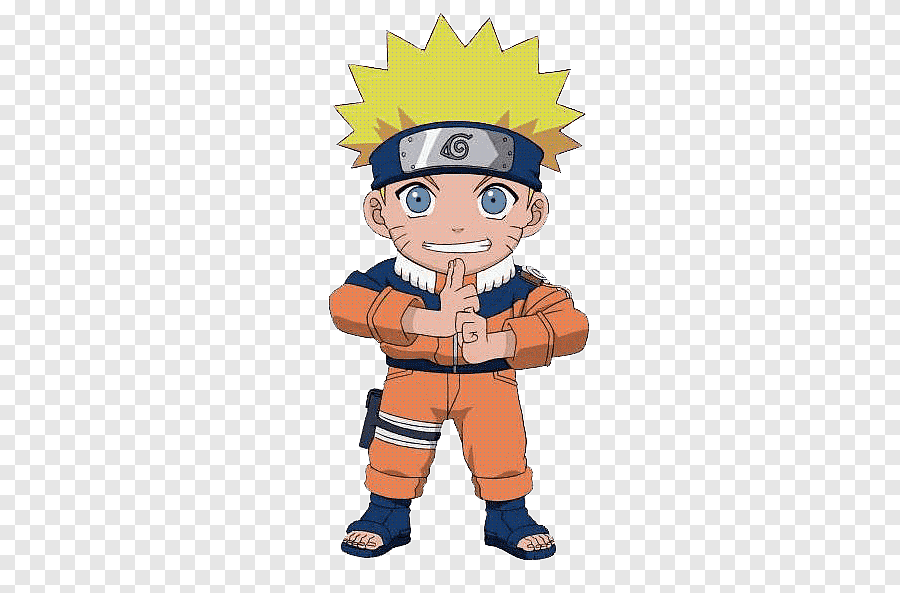
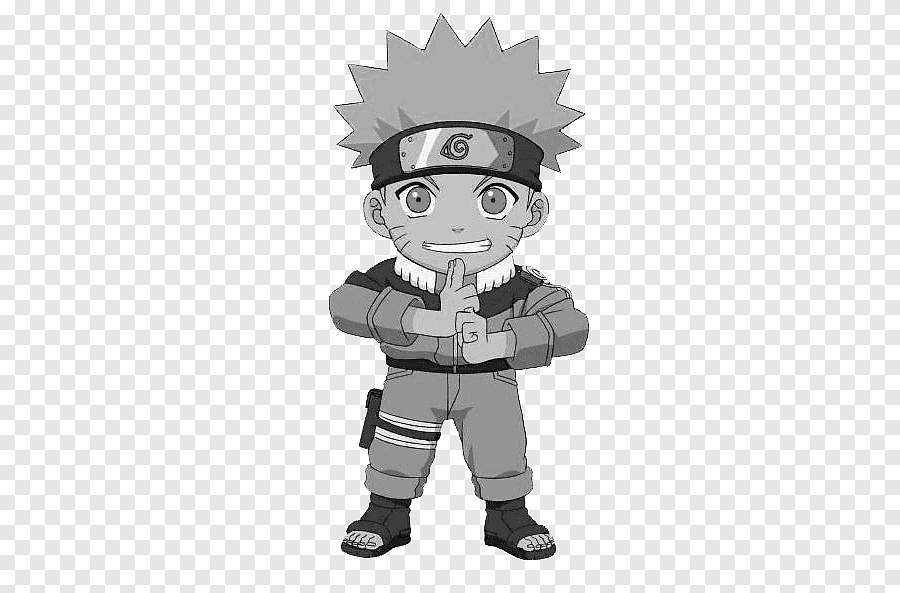
Week 7

Changed region(s): [[0.3422, 0.0304, 0.6533, 0.941]]

diff --git a/Week 7/grayScale.c b/Week 7/grayScale.c
@@ -14,10 +14,11 @@ int main()
         printf("%u : %s\n", error, lodepng_error_text(error));
     }
     // workshop Q2
-    int red, green, blue, alpha;
-    for (int i = 0; i < height; i = i++)
+    int red, green, blue;
+    int i, j;
+    for (i = 0; i < height; i = i++)
     { // for row //for row takes one pixel 0,1,2,3
-        for (int j = 0; j < width; j = j++)
+        for (j = 0; j < width; j = j++)
         {                                           // for column //for column takes the other pixels which starts form 4
             red = img[4 * width * i + 4 * j];       // index[0]
             green = img[4 * width * i + 4 * j + 1]; // index[1]
@@ -27,9 +28,9 @@ int main()
             int gray = (red + green + blue) / 3;
 
             // assigning the new values to rgb
-            // red = gray;
-            // green = gray;
-            // blue = gray;
+            red = gray;
+            green = gray;
+            blue = gray;
 
             // re-assigning the new value of rgb for grayscale of the image
             img[4 * width * i + 4 * j + 0] = gray;

diff --git a/Week 7/grayScaleImg.c b/Week 7/grayScaleImg.c
@@ -1,4 +1,5 @@
 #include <stdio.h>
+#include <stdlib.h>
 #include "lodepng.h"
 
 int main()
@@ -12,14 +13,15 @@ int main()
     {
         printf("%u : %s\n", error, lodepng_error_text(error));
     }
-    // Workshop Question 1
+    int red, green, blue;
 
     for (int i = 0; i < width * height * 4; i = i + 4)
     {
-        img[i] = 255 - img[i];
-        img[i + 1] = 255 - img[i + 1];
-        img[i + 2] = 255 - img[i + 2];
+        int gray = (img[i] + img[i + 1] + img[i + 2]) / 3;
+        img[i] = gray;
+        img[i + 1] = gray;
+        img[i + 2] = gray;
     }
-    lodepng_encode32_file("-VE Naruto.png", img, width, height);
+    lodepng_encode32_file("grayScaleNaruto.png", img, width, height);
     free(img);
 }

diff --git a/Week 7/negativeImg.c b/Week 7/negativeImg.c
@@ -1,4 +1,5 @@
 #include <stdio.h>
+#include <stdlib.h>
 #include "lodepng.h"
 
 int main()
